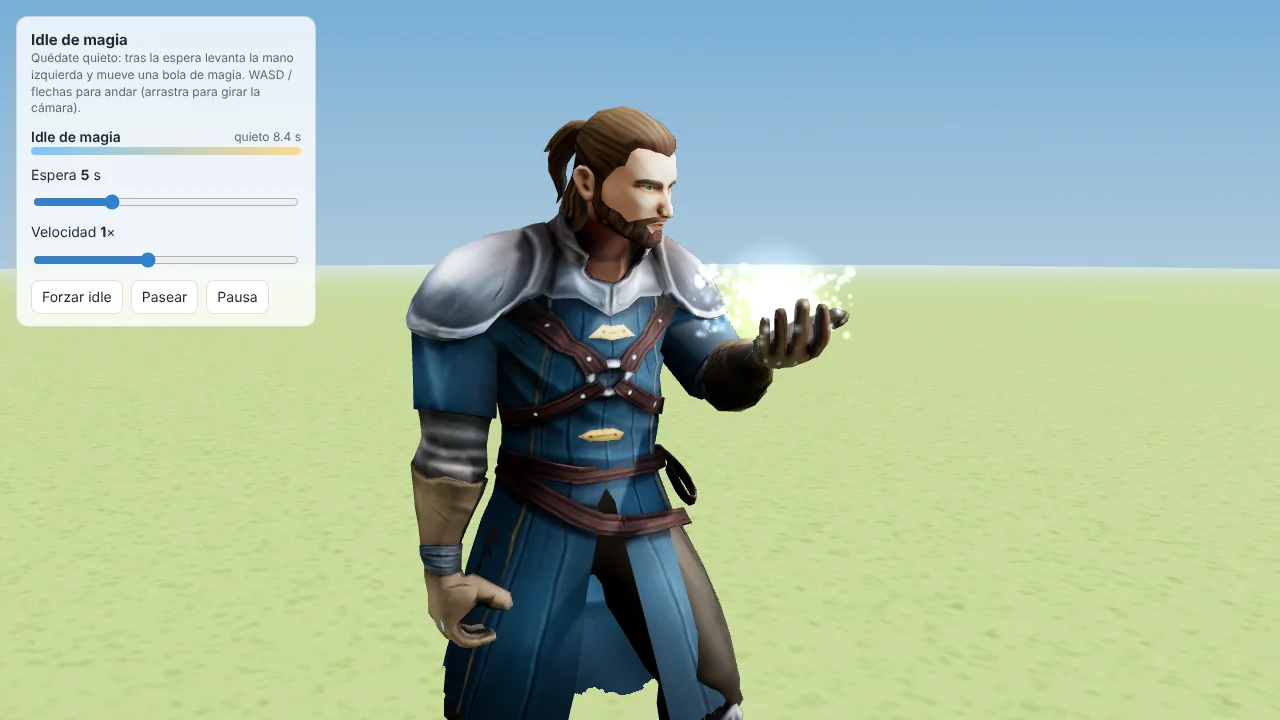
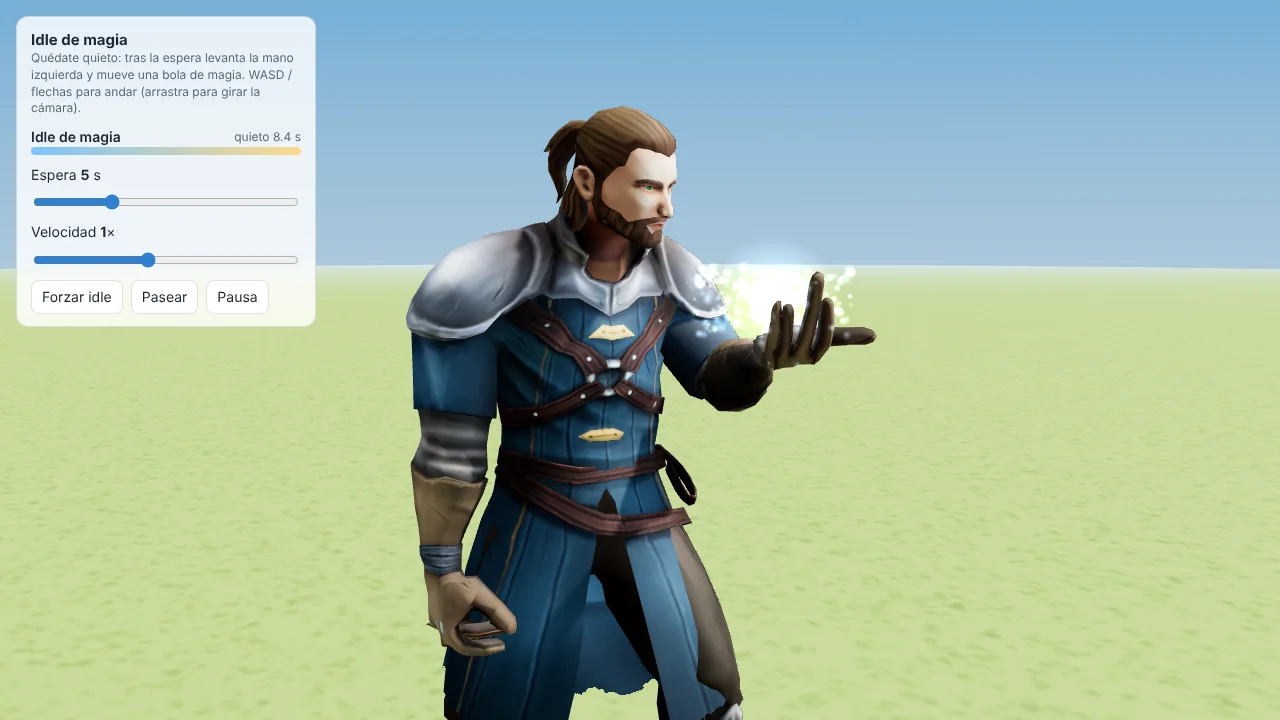
fix(prototipo): manos del idle de magia más creíbles (articulaciones de los dedos recolocadas, cascada natural y pulgar)
Claude-Session: https://claude.ai/code/session_01SV5CVSyyA9tJWYFty73E5o

Changed region(s): [[0.5938, 0.3667, 0.6875, 0.5194], [0.3438, 0.7944, 0.4062, 0.9167]]

diff --git a/prototipo/idle/idle.html b/prototipo/idle/idle.html
@@ -184,11 +184,77 @@ const H = { l: null, r: null };
 let bones = [], bind = [];
 function palmNormal(h, out) { h.hand.getWorldQuaternion(tq3); return out.copy(h.palm).applyQuaternion(tq3); }
 
+// Recoloca las articulaciones de los dedos donde la malla realmente se dobla (el esqueleto del soldado se re-enlazó desde
+// otro personaje y sus nudillos quedan 1–2 cm fuera de sitio). Cada articulación pasa al centro del anillo de vértices
+// que comparten peso entre las dos falanges; la malla en reposo no cambia (se recalculan los boneInverses).
+const MANOS_INFO = [];
+function arreglarManos(root, clips) {
+  const FINGER = /^(thumb|index|middle|ring|pinky)_0([123])_([lr])$/;
+  root.updateMatrixWorld(true);
+  const meshes = []; root.traverse(o => { if (o.isSkinnedMesh) meshes.push(o); });
+  const byName = {}; root.traverse(o => { if (o.isBone) byName[o.name] = o; });
+  const ring = {};   // nombre de hueso → [suma, n]
+  const G = ['getX', 'getY', 'getZ', 'getW'], v = new V(), m = new THREE.Matrix4(), acc = new V();
+  for (const mesh of meshes) {
+    const sk = mesh.skeleton, g = mesh.geometry, pos = g.attributes.position, si = g.attributes.skinIndex, sw = g.attributes.skinWeight;
+    if (!si || !sw) continue;
+    for (let i = 0; i < pos.count; i++) {
+      const ws = {}; let any = false;
+      for (let k = 0; k < 4; k++) { const w = sw[G[k]](i); if (w > 0.15) { ws[sk.bones[si[G[k]](i)].name] = w; any = true; } }
+      if (!any) continue;
+      // pares (padre, hijo) en la misma cadena con peso repartido
+      for (const n in ws) {
+        const mm = FINGER.exec(n); if (!mm) continue;
+        const parentName = mm[2] === '1' ? 'hand_' + mm[3] : `${mm[1]}_0${+mm[2] - 1}_${mm[3]}`;
+        if (!(parentName in ws)) continue;
+        const wsum = ws[n] + ws[parentName]; if (Math.min(ws[n], ws[parentName]) / wsum < 0.25) continue;
+        acc.set(0, 0, 0); let wt = 0;
+        for (let k = 0; k < 4; k++) {
+          const w = sw[G[k]](i); if (w <= 0) continue; const bi = si[G[k]](i);
+          v.fromBufferAttribute(pos, i).applyMatrix4(mesh.bindMatrix).applyMatrix4(sk.boneInverses[bi]).applyMatrix4(sk.bones[bi].matrixWorld);
+          acc.addScaledVector(v, w); wt += w;
+        }
+        acc.multiplyScalar(1 / wt);
+        const r = ring[n] || (ring[n] = [new V(), 0]); r[0].add(acc); r[1]++;
+      }
+    }
+  }
+  // mueve cada hueso de dedo (de la raíz a la punta) y recalcula su boneInverse para que la malla en reposo no cambie
+  const oldW = new Map();
+  root.traverse(o => { if (o.isBone && FINGER.test(o.name)) oldW.set(o, o.matrixWorld.clone()); });
+  const orden = []; root.traverse(o => { if (o.isBone && FINGER.test(o.name)) orden.push(o); });
+  for (const bn of orden) {
+    const r = ring[bn.name]; if (!r || r[1] < 3 || /_01_/.test(bn.name)) continue;   // nudillos y base del pulgar: el anillo de esta malla no es fiable
+    const want = r[0].multiplyScalar(1 / r[1]);
+    bn.parent.updateMatrixWorld(true);
+    const before = bn.getWorldPosition(new V());
+    // hijos: conserva su posición en mundo (se recolocan después con su propio anillo si lo tienen)
+    const kids = bn.children.filter(c => c.isBone).map(c => [c, c.getWorldPosition(new V())]);
+    bn.position.copy(bn.parent.worldToLocal(want.clone()));
+    bn.updateMatrixWorld(true);
+    for (const [c, wpos] of kids) { c.position.copy(bn.worldToLocal(wpos)); c.updateMatrixWorld(true); }
+    MANOS_INFO.push([bn.name, +(before.distanceTo(want) * 100).toFixed(2)]);
+  }
+  root.updateMatrixWorld(true);
+  for (const mesh of meshes) {
+    const sk = mesh.skeleton;
+    sk.bones.forEach((bn, i) => {
+      const W0 = oldW.get(bn); if (!W0) return;
+      // nuevo inverso = W_nuevo⁻¹ · W_viejo · inverso_viejo
+      m.copy(bn.matrixWorld).invert().multiply(W0).multiply(sk.boneInverses[i]);
+      sk.boneInverses[i].copy(m);
+    });
+  }
+  // los clips no deben devolver los dedos a la posición vieja
+  for (const c of clips) c.tracks = c.tracks.filter(t => !(t.name.endsWith('.position') && FINGER.test(t.name.split('.')[0])));
+}
+
 new THREE.GLTFLoader().parse(b64ToBuf(GLB_B64), '', gltf => {
   char = gltf.scene;
   char.traverse(o => { if (o.isMesh) { o.castShadow = true; o.receiveShadow = true; o.frustumCulled = false; } });
   pivot.add(char);
   const find = n => { let r = null; char.traverse(o => { if (!r && o.isBone && o.name === n) r = o; }); return r; };
+  arreglarManos(char, gltf.animations);
   char.traverse(o => { if (o.isBone) { bones.push(o); bind.push([o.quaternion.clone(), o.position.clone()]); } });
   ['spine_03', 'neck_01', 'head', 'pelvis'].forEach(n => B[n] = find(n));
   char.updateMatrixWorld(true);   // pose de enlace (bind): mano abierta
@@ -202,7 +268,7 @@ new THREE.GLTFLoader().parse(b64ToBuf(GLB_B64), '', gltf => {
     ['index', 'middle', 'ring', 'pinky', 'thumb'].forEach((f, fi) => {
       for (let j = 1; j <= 3; j++) {
         const b = find(`${f}_0${j}_${sd}`); if (!b) continue;
-        h.fingers.push({ b, fi, j, thumb: f === 'thumb', bindQ: b.quaternion.clone(), axis: new V() });
+        h.fingers.push({ b, fi, j, thumb: f === 'thumb', bindQ: b.quaternion.clone(), axis: new V(), axisN: new V() });
       }
     });
     H[sd] = h;
@@ -229,7 +295,8 @@ new THREE.GLTFLoader().parse(b64ToBuf(GLB_B64), '', gltf => {
       tB.normalize();
       tC.crossVectors(tB, tF);
       if (tC.lengthSq() < 1e-6) tC.set(1, 0, 0);
-      f.b.getWorldQuaternion(tq); f.axis.copy(tC.normalize()).applyQuaternion(tq.invert());
+      f.b.getWorldQuaternion(tq); tq.invert(); f.axis.copy(tC.normalize()).applyQuaternion(tq);
+      f.axisN.copy(tF).applyQuaternion(tq);   // eje de separación (abducción): la normal de la palma
     }
   }
   const fwd = new V(0, 0, 1);
@@ -315,15 +382,31 @@ function orientHand(h, nUp, dFwd, w) {
   tq.setFromUnitVectors(tB, tC); if (w < 1) tq.slerp(tq3.identity(), 1 - w); rotWorld(h.hand, tq);
 }
 // dedos a partir de la pose de enlace (mano abierta) + flexión por falange; mezcla con el clip según w
-const RELAJADA = [0.30, 0.45, 0.35], PULGAR_REL = [0.10, 0.20, 0.15];
-function poseFingers(h, curl, w) {
+const RELAJADA = [0.22, 0.40, 0.30], PULGAR_REL = [0.30, 0.22, 0.12];
+const qS = new Q();
+function poseFingers(h, curl, spread, w) {
+  const sg = h.side === 'l' ? 1 : -1;
   for (const f of h.fingers) {
     const ang = curl(f);
-    qR.setFromAxisAngle(f.axis, ang); tq.copy(f.bindQ).multiply(qR);
+    qR.setFromAxisAngle(f.axis, ang); tq.copy(f.bindQ);
+    if (f.j === 1) { qS.setFromAxisAngle(f.axisN, sg * spread(f)); tq.multiply(qS); }
+    tq.multiply(qR);
     f.b.quaternion.slerp(tq, w);
   }
   h.hand.updateMatrixWorld(true);
+  // pulgar: se orienta su base explícitamente (en la pose de enlace sale en T, separado de la mano)
+  const th = h.fingers.find(f => f.thumb && f.j === 1), th2 = h.fingers.find(f => f.thumb && f.j === 2);
+  if (th && th2) {
+    wp(h.hand, tA); wp(h.middle, tB); tB.sub(tA).normalize();         // dirección de los dedos
+    wp(h.index, tC); wp(h.pinky, tD); tC.sub(tD).normalize();          // hacia el índice
+    palmNormal(h, tE);
+    const k = thumbK;                                                   // 0 relajado → 1 abierto (magia)
+    tF.set(0, 0, 0).addScaledVector(tB, 0.80 - 0.25 * k).addScaledVector(tE, 0.50 - 0.35 * k).addScaledVector(tC, 0.30 + 0.45 * k).normalize();
+    aim(th.b, th2.b, tF, w);
+    h.hand.updateMatrixWorld(true);
+  }
 }
+let thumbK = 0;
 function applyPose(wMagia, t, mov) {
   const a = 1 - mov;                 // capa de brazos: plena quieto, nula andando
   const e = ease(wMagia);
@@ -359,13 +442,21 @@ function applyPose(wMagia, t, mov) {
       }
       orientHand(h, dUp, dFw, a);
       // dedos: relajados → mano abierta ahuecada que ondula, dedo a dedo, como si girara la bola
+      // relajada: cascada natural (el meñique más cerrado que el índice); mágica: mano ahuecada, dedos algo separados,
+      // ola lenta del índice al meñique y pulgar abierto hacia fuera
+      thumbK = k;
       poseFingers(h, f => {
-        const rel = f.thumb ? PULGAR_REL[f.j - 1] : RELAJADA[f.j - 1];
+        const casc = f.fi * 0.07;
+        const rel = f.thumb ? PULGAR_REL[f.j - 1] : RELAJADA[f.j - 1] + casc * (f.j === 1 ? 1.2 : 0.6);
         if (k <= 0) return rel;
-        const ola = Math.sin(t * 2.4 - f.fi * 0.7);
-        const mag = f.thumb ? [-0.25, -0.05, 0.05][f.j - 1] + 0.04 * Math.sin(t * 1.9)
-                            : [0.18, 0.26, 0.22][f.j - 1] + ola * [0.10, 0.12, 0.10][f.j - 1];
+        const ola = Math.sin(t * 2.0 - f.fi * 0.75);
+        const mag = f.thumb ? [-0.20, 0.02, 0.10][f.j - 1] + 0.05 * Math.sin(t * 1.6)
+                            : [0.14, 0.22, 0.18][f.j - 1] + casc * 0.8 + ola * [0.09, 0.10, 0.08][f.j - 1];
         return rel + (mag - rel) * k;
+      }, f => {
+        const relS = 0;
+        const magS = [-0.03, 0.0, 0.025, 0.05, 0.0][f.fi] + 0.012 * Math.sin(t * 2.0 - f.fi * 0.75);
+        return relS + (magS - relS) * k;
       }, a);
     }
   }
@@ -470,6 +561,8 @@ window.__IDLE__ = {
   camara: (x, y, z, tx, ty, tz) => { camera.position.set(x, y, z); controls.target.set(tx, ty, tz); controls.update(); renderer.render(scene, camera); },
   render: () => renderer.render(scene, camera),
   _clips: () => Object.values(acts).map(a => a.getClip()),
+  manos: () => MANOS_INFO,
+  _dbg: () => ({ THREE, scene, camera, renderer, char, H, pivot, resetBind }),
   // posiciones de los huesos de la mano izq. en el espacio local de hand_l (depuración)
   mano: () => { const inv = new THREE.Matrix4().copy(H.l.hand.matrixWorld).invert(), r = {};
     char.traverse(o => { if (o.isBone && /_l$/.test(o.name) && /(index|middle|ring|pinky|thumb)/.test(o.name)) r[o.name] = wp(o, new V()).applyMatrix4(inv).toArray().map(v => +v.toFixed(3)); });

diff --git a/prototipo/idle/idle.src.html b/prototipo/idle/idle.src.html
@@ -184,11 +184,77 @@ const H = { l: null, r: null };
 let bones = [], bind = [];
 function palmNormal(h, out) { h.hand.getWorldQuaternion(tq3); return out.copy(h.palm).applyQuaternion(tq3); }
 
+// Recoloca las articulaciones de los dedos donde la malla realmente se dobla (el esqueleto del soldado se re-enlazó desde
+// otro personaje y sus nudillos quedan 1–2 cm fuera de sitio). Cada articulación pasa al centro del anillo de vértices
+// que comparten peso entre las dos falanges; la malla en reposo no cambia (se recalculan los boneInverses).
+const MANOS_INFO = [];
+function arreglarManos(root, clips) {
+  const FINGER = /^(thumb|index|middle|ring|pinky)_0([123])_([lr])$/;
+  root.updateMatrixWorld(true);
+  const meshes = []; root.traverse(o => { if (o.isSkinnedMesh) meshes.push(o); });
+  const byName = {}; root.traverse(o => { if (o.isBone) byName[o.name] = o; });
+  const ring = {};   // nombre de hueso → [suma, n]
+  const G = ['getX', 'getY', 'getZ', 'getW'], v = new V(), m = new THREE.Matrix4(), acc = new V();
+  for (const mesh of meshes) {
+    const sk = mesh.skeleton, g = mesh.geometry, pos = g.attributes.position, si = g.attributes.skinIndex, sw = g.attributes.skinWeight;
+    if (!si || !sw) continue;
+    for (let i = 0; i < pos.count; i++) {
+      const ws = {}; let any = false;
+      for (let k = 0; k < 4; k++) { const w = sw[G[k]](i); if (w > 0.15) { ws[sk.bones[si[G[k]](i)].name] = w; any = true; } }
+      if (!any) continue;
+      // pares (padre, hijo) en la misma cadena con peso repartido
+      for (const n in ws) {
+        const mm = FINGER.exec(n); if (!mm) continue;
+        const parentName = mm[2] === '1' ? 'hand_' + mm[3] : `${mm[1]}_0${+mm[2] - 1}_${mm[3]}`;
+        if (!(parentName in ws)) continue;
+        const wsum = ws[n] + ws[parentName]; if (Math.min(ws[n], ws[parentName]) / wsum < 0.25) continue;
+        acc.set(0, 0, 0); let wt = 0;
+        for (let k = 0; k < 4; k++) {
+          const w = sw[G[k]](i); if (w <= 0) continue; const bi = si[G[k]](i);
+          v.fromBufferAttribute(pos, i).applyMatrix4(mesh.bindMatrix).applyMatrix4(sk.boneInverses[bi]).applyMatrix4(sk.bones[bi].matrixWorld);
+          acc.addScaledVector(v, w); wt += w;
+        }
+        acc.multiplyScalar(1 / wt);
+        const r = ring[n] || (ring[n] = [new V(), 0]); r[0].add(acc); r[1]++;
+      }
+    }
+  }
+  // mueve cada hueso de dedo (de la raíz a la punta) y recalcula su boneInverse para que la malla en reposo no cambie
+  const oldW = new Map();
+  root.traverse(o => { if (o.isBone && FINGER.test(o.name)) oldW.set(o, o.matrixWorld.clone()); });
+  const orden = []; root.traverse(o => { if (o.isBone && FINGER.test(o.name)) orden.push(o); });
+  for (const bn of orden) {
+    const r = ring[bn.name]; if (!r || r[1] < 3 || /_01_/.test(bn.name)) continue;   // nudillos y base del pulgar: el anillo de esta malla no es fiable
+    const want = r[0].multiplyScalar(1 / r[1]);
+    bn.parent.updateMatrixWorld(true);
+    const before = bn.getWorldPosition(new V());
+    // hijos: conserva su posición en mundo (se recolocan después con su propio anillo si lo tienen)
+    const kids = bn.children.filter(c => c.isBone).map(c => [c, c.getWorldPosition(new V())]);
+    bn.position.copy(bn.parent.worldToLocal(want.clone()));
+    bn.updateMatrixWorld(true);
+    for (const [c, wpos] of kids) { c.position.copy(bn.worldToLocal(wpos)); c.updateMatrixWorld(true); }
+    MANOS_INFO.push([bn.name, +(before.distanceTo(want) * 100).toFixed(2)]);
+  }
+  root.updateMatrixWorld(true);
+  for (const mesh of meshes) {
+    const sk = mesh.skeleton;
+    sk.bones.forEach((bn, i) => {
+      const W0 = oldW.get(bn); if (!W0) return;
+      // nuevo inverso = W_nuevo⁻¹ · W_viejo · inverso_viejo
+      m.copy(bn.matrixWorld).invert().multiply(W0).multiply(sk.boneInverses[i]);
+      sk.boneInverses[i].copy(m);
+    });
+  }
+  // los clips no deben devolver los dedos a la posición vieja
+  for (const c of clips) c.tracks = c.tracks.filter(t => !(t.name.endsWith('.position') && FINGER.test(t.name.split('.')[0])));
+}
+
 new THREE.GLTFLoader().parse(b64ToBuf(GLB_B64), '', gltf => {
   char = gltf.scene;
   char.traverse(o => { if (o.isMesh) { o.castShadow = true; o.receiveShadow = true; o.frustumCulled = false; } });
   pivot.add(char);
   const find = n => { let r = null; char.traverse(o => { if (!r && o.isBone && o.name === n) r = o; }); return r; };
+  arreglarManos(char, gltf.animations);
   char.traverse(o => { if (o.isBone) { bones.push(o); bind.push([o.quaternion.clone(), o.position.clone()]); } });
   ['spine_03', 'neck_01', 'head', 'pelvis'].forEach(n => B[n] = find(n));
   char.updateMatrixWorld(true);   // pose de enlace (bind): mano abierta
@@ -202,7 +268,7 @@ new THREE.GLTFLoader().parse(b64ToBuf(GLB_B64), '', gltf => {
     ['index', 'middle', 'ring', 'pinky', 'thumb'].forEach((f, fi) => {
       for (let j = 1; j <= 3; j++) {
         const b = find(`${f}_0${j}_${sd}`); if (!b) continue;
-        h.fingers.push({ b, fi, j, thumb: f === 'thumb', bindQ: b.quaternion.clone(), axis: new V() });
+        h.fingers.push({ b, fi, j, thumb: f === 'thumb', bindQ: b.quaternion.clone(), axis: new V(), axisN: new V() });
       }
     });
     H[sd] = h;
@@ -229,7 +295,8 @@ new THREE.GLTFLoader().parse(b64ToBuf(GLB_B64), '', gltf => {
       tB.normalize();
       tC.crossVectors(tB, tF);
       if (tC.lengthSq() < 1e-6) tC.set(1, 0, 0);
-      f.b.getWorldQuaternion(tq); f.axis.copy(tC.normalize()).applyQuaternion(tq.invert());
+      f.b.getWorldQuaternion(tq); tq.invert(); f.axis.copy(tC.normalize()).applyQuaternion(tq);
+      f.axisN.copy(tF).applyQuaternion(tq);   // eje de separación (abducción): la normal de la palma
     }
   }
   const fwd = new V(0, 0, 1);
@@ -315,15 +382,31 @@ function orientHand(h, nUp, dFwd, w) {
   tq.setFromUnitVectors(tB, tC); if (w < 1) tq.slerp(tq3.identity(), 1 - w); rotWorld(h.hand, tq);
 }
 // dedos a partir de la pose de enlace (mano abierta) + flexión por falange; mezcla con el clip según w
-const RELAJADA = [0.30, 0.45, 0.35], PULGAR_REL = [0.10, 0.20, 0.15];
-function poseFingers(h, curl, w) {
+const RELAJADA = [0.22, 0.40, 0.30], PULGAR_REL = [0.30, 0.22, 0.12];
+const qS = new Q();
+function poseFingers(h, curl, spread, w) {
+  const sg = h.side === 'l' ? 1 : -1;
   for (const f of h.fingers) {
     const ang = curl(f);
-    qR.setFromAxisAngle(f.axis, ang); tq.copy(f.bindQ).multiply(qR);
+    qR.setFromAxisAngle(f.axis, ang); tq.copy(f.bindQ);
+    if (f.j === 1) { qS.setFromAxisAngle(f.axisN, sg * spread(f)); tq.multiply(qS); }
+    tq.multiply(qR);
     f.b.quaternion.slerp(tq, w);
   }
   h.hand.updateMatrixWorld(true);
+  // pulgar: se orienta su base explícitamente (en la pose de enlace sale en T, separado de la mano)
+  const th = h.fingers.find(f => f.thumb && f.j === 1), th2 = h.fingers.find(f => f.thumb && f.j === 2);
+  if (th && th2) {
+    wp(h.hand, tA); wp(h.middle, tB); tB.sub(tA).normalize();         // dirección de los dedos
+    wp(h.index, tC); wp(h.pinky, tD); tC.sub(tD).normalize();          // hacia el índice
+    palmNormal(h, tE);
+    const k = thumbK;                                                   // 0 relajado → 1 abierto (magia)
+    tF.set(0, 0, 0).addScaledVector(tB, 0.80 - 0.25 * k).addScaledVector(tE, 0.50 - 0.35 * k).addScaledVector(tC, 0.30 + 0.45 * k).normalize();
+    aim(th.b, th2.b, tF, w);
+    h.hand.updateMatrixWorld(true);
+  }
 }
+let thumbK = 0;
 function applyPose(wMagia, t, mov) {
   const a = 1 - mov;                 // capa de brazos: plena quieto, nula andando
   const e = ease(wMagia);
@@ -359,13 +442,21 @@ function applyPose(wMagia, t, mov) {
       }
       orientHand(h, dUp, dFw, a);
       // dedos: relajados → mano abierta ahuecada que ondula, dedo a dedo, como si girara la bola
+      // relajada: cascada natural (el meñique más cerrado que el índice); mágica: mano ahuecada, dedos algo separados,
+      // ola lenta del índice al meñique y pulgar abierto hacia fuera
+      thumbK = k;
       poseFingers(h, f => {
-        const rel = f.thumb ? PULGAR_REL[f.j - 1] : RELAJADA[f.j - 1];
+        const casc = f.fi * 0.07;
+        const rel = f.thumb ? PULGAR_REL[f.j - 1] : RELAJADA[f.j - 1] + casc * (f.j === 1 ? 1.2 : 0.6);
         if (k <= 0) return rel;
-        const ola = Math.sin(t * 2.4 - f.fi * 0.7);
-        const mag = f.thumb ? [-0.25, -0.05, 0.05][f.j - 1] + 0.04 * Math.sin(t * 1.9)
-                            : [0.18, 0.26, 0.22][f.j - 1] + ola * [0.10, 0.12, 0.10][f.j - 1];
+        const ola = Math.sin(t * 2.0 - f.fi * 0.75);
+        const mag = f.thumb ? [-0.20, 0.02, 0.10][f.j - 1] + 0.05 * Math.sin(t * 1.6)
+                            : [0.14, 0.22, 0.18][f.j - 1] + casc * 0.8 + ola * [0.09, 0.10, 0.08][f.j - 1];
         return rel + (mag - rel) * k;
+      }, f => {
+        const relS = 0;
+        const magS = [-0.03, 0.0, 0.025, 0.05, 0.0][f.fi] + 0.012 * Math.sin(t * 2.0 - f.fi * 0.75);
+        return relS + (magS - relS) * k;
       }, a);
     }
   }
@@ -470,6 +561,8 @@ window.__IDLE__ = {
   camara: (x, y, z, tx, ty, tz) => { camera.position.set(x, y, z); controls.target.set(tx, ty, tz); controls.update(); renderer.render(scene, camera); },
   render: () => renderer.render(scene, camera),
   _clips: () => Object.values(acts).map(a => a.getClip()),
+  manos: () => MANOS_INFO,
+  _dbg: () => ({ THREE, scene, camera, renderer, char, H, pivot, resetBind }),
   // posiciones de los huesos de la mano izq. en el espacio local de hand_l (depuración)
   mano: () => { const inv = new THREE.Matrix4().copy(H.l.hand.matrixWorld).invert(), r = {};
     char.traverse(o => { if (o.isBone && /_l$/.test(o.name) && /(index|middle|ring|pinky|thumb)/.test(o.name)) r[o.name] = wp(o, new V()).applyMatrix4(inv).toArray().map(v => +v.toFixed(3)); });

diff --git a/prototipo/pruebas/idle.js b/prototipo/pruebas/idle.js
@@ -25,6 +25,7 @@ const toWebp = (png, webp) => { cp.execFileSync('python3', ['-I', '-c', 'import 
   ok(dO > 0.005, `la bola se mueve (${(dO * 100).toFixed(1)} cm en 0,75 s)`);
   await p.evaluate(() => window.__IDLE__.camara(-1.2, 1.5, 1.6, 0.1, 1.25, 0)); await shot('3_idle_magia_otro_lado');
   await p.evaluate(() => window.__IDLE__.camara(0.75, 1.45, 0.75, 0.15, 1.2, 0.25)); await shot('4_mano_cerca');
+  await p.evaluate(() => window.__IDLE__.camara(-0.75, 0.95, 0.55, -0.22, 0.85, 0.02)); await shot('5_mano_relajada');
   await p.evaluate(() => window.__IDLE__.key('w', true)); s = await st(30);
   ok(s.quieto === 0 && s.w < 1 && s.fase !== 'idle de magia', `al moverse se interrumpe (${s.fase}, w ${s.w.toFixed(2)})`);
   s = await st(30); ok(s.w === 0 && !s.orbVisible, 'mano bajada y bola deshecha');

diff --git a/prototipo/README.md b/prototipo/README.md
@@ -32,7 +32,7 @@ Si cambias `maqueta.src.html`, vuelve a generar `maqueta.html` con el comando de
 | `pruebas/*.js` | Pruebas con Playwright: carga sin errores, vista de frente, combate (fuego, luz, martillo, correr atacando), hechizo de luz; `magia.js` verifica los criterios MQ-01..MQ-14 y saca las capturas `vfx/capturas/magia_*.webp` (`node prototipo/pruebas/magia.js prototipo/dist prototipo/.three/package [dirCapturas] [mq\|cap]`) |
 | `capturas/` | Capturas de referencia (render en Blender, poses, combate) |
 | `grimorio/` | **Visor del grimorio** (`grimorio.html`, generado por `build_grimorio.py` desde `grimorio.src.html`): en primera persona el protagonista hace levitar el libro-menú con la mano izquierda abierta (runa de Levitar provisional en el dorso e hilo de partículas desde la palma) y lo abre (marcapáginas laterales: Hechizos, Bolso, Códice, Mapa, Ajustes) y la animación de hechizo nuevo (partículas que forman la hoja, se pasan las páginas y la tinta escribe círculo, nombre y sello). Línea temporal con pausa, arrastre y velocidad; `?test=1` + `window.__GRIMORIO__`. Prueba: `node prototipo/pruebas/grimorio.js`; capturas en `grimorio/capturas/` |
-| `idle/` | **Visor del idle de magia** (`idle.html`, generado por `build_idle.py` desde `idle.src.html` con `caballero_soldado.glb`): tras N s quieto (5 por defecto, ajustable) el personaje levanta la mano izquierda con la palma hacia arriba (IK de dos huesos + orientación de palma sobre el clip `reposo`; los dos brazos se colocan relajados junto al cuerpo porque el clip mete el derecho en el torso; dedos desde la pose de enlace con flexión por falange), ondula los dedos y mueve una bola de magia que se forma con partículas en espiral, con hilo desde la palma y luz; la cabeza la mira. Al moverse (WASD/flechas, cruceta táctil o «Pasear») baja la mano y la bola se deshace. Paso fijo a 60 Hz con render interpolado; `?test=1` + `window.__IDLE__`. Prueba: `node prototipo/pruebas/idle.js`; capturas en `idle/capturas/` |
+| `idle/` | **Visor del idle de magia** (`idle.html`, generado por `build_idle.py` desde `idle.src.html` con `caballero_soldado.glb`): tras N s quieto (5 por defecto, ajustable) el personaje levanta la mano izquierda con la palma hacia arriba (IK de dos huesos + orientación de palma sobre el clip `reposo`; los dos brazos se colocan relajados junto al cuerpo porque el clip mete el derecho en el torso; dedos desde la pose de enlace con flexión por falange y pulgar orientado aparte; al cargar se recolocan las articulaciones medias y distales de los dedos en el pliegue real de la malla y se recalculan los `boneInverses`, porque el esqueleto re-enlazado del soldado las tenía 0,4–1,2 cm fuera de sitio), ondula los dedos y mueve una bola de magia que se forma con partículas en espiral, con hilo desde la palma y luz; la cabeza la mira. Al moverse (WASD/flechas, cruceta táctil o «Pasear») baja la mano y la bola se deshace. Paso fijo a 60 Hz con render interpolado; `?test=1` + `window.__IDLE__`. Prueba: `node prototipo/pruebas/idle.js`; capturas en `idle/capturas/` |
 | `exterior/` | Escena exterior «Camino de la Aldea del Vado» (ver abajo): `BRIEF.md` (director-arte), `assets/` (CC0 de Poly Haven, `CREDITOS.md`), `src/{terreno,edificios,aldea}.js` (código de la escena), `capturas/*.webp` |
 | `pruebas/exterior.js`, `pruebas/terreno.test.js` | Prueba de la aldea (carga, renderer.info por preset, capturas C1/C2/C3 y jinete, dispose) y prueba en Node del modelo de terreno |
 
